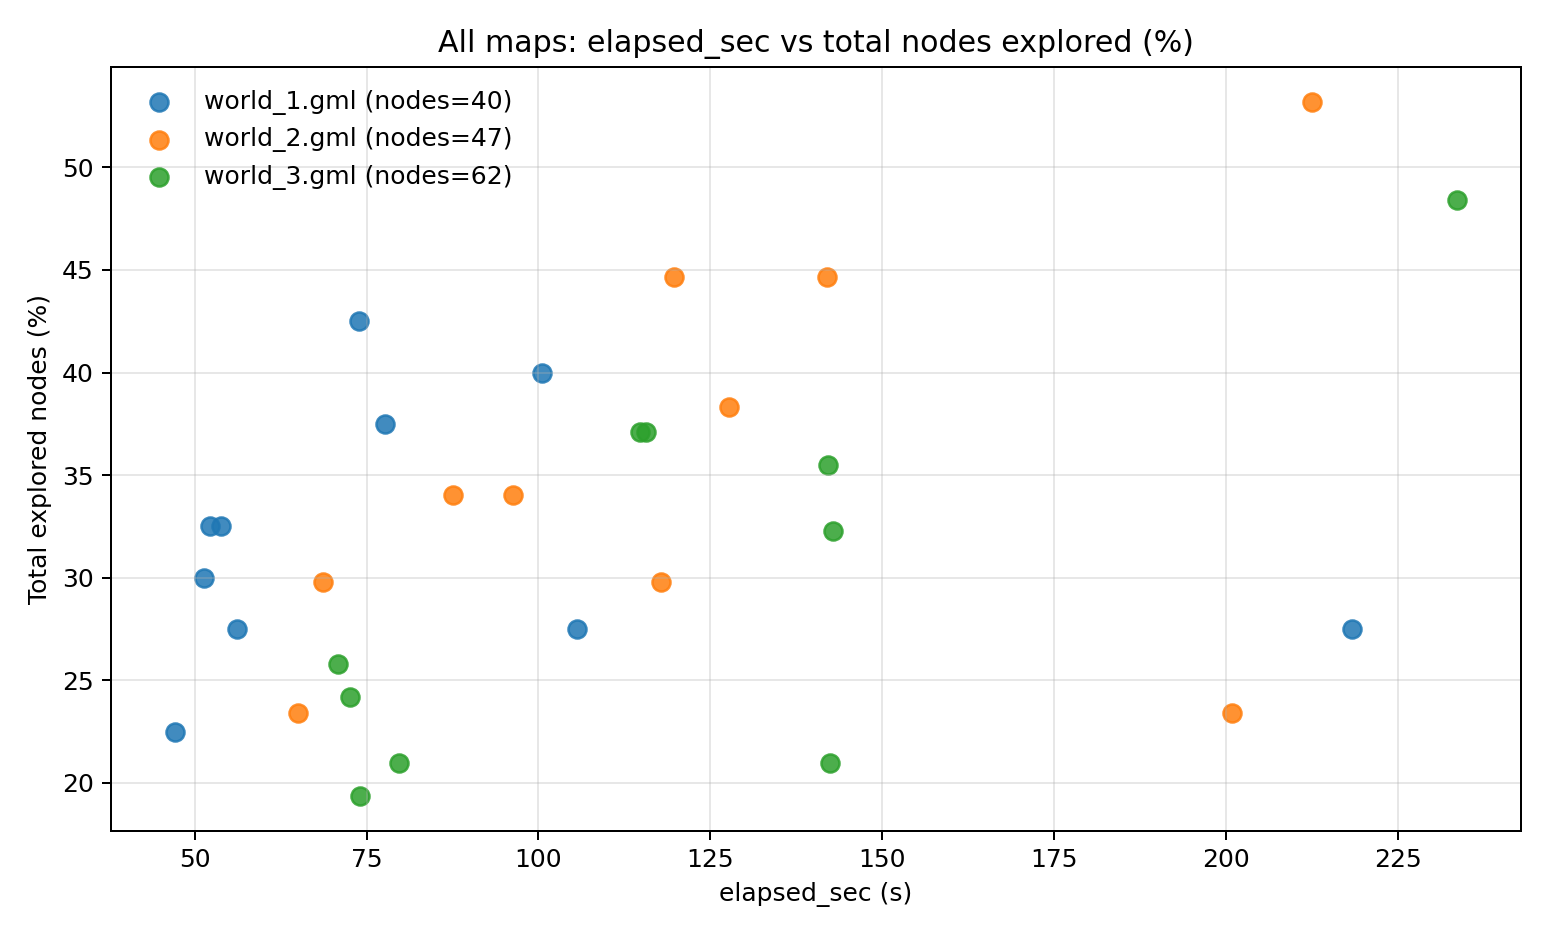
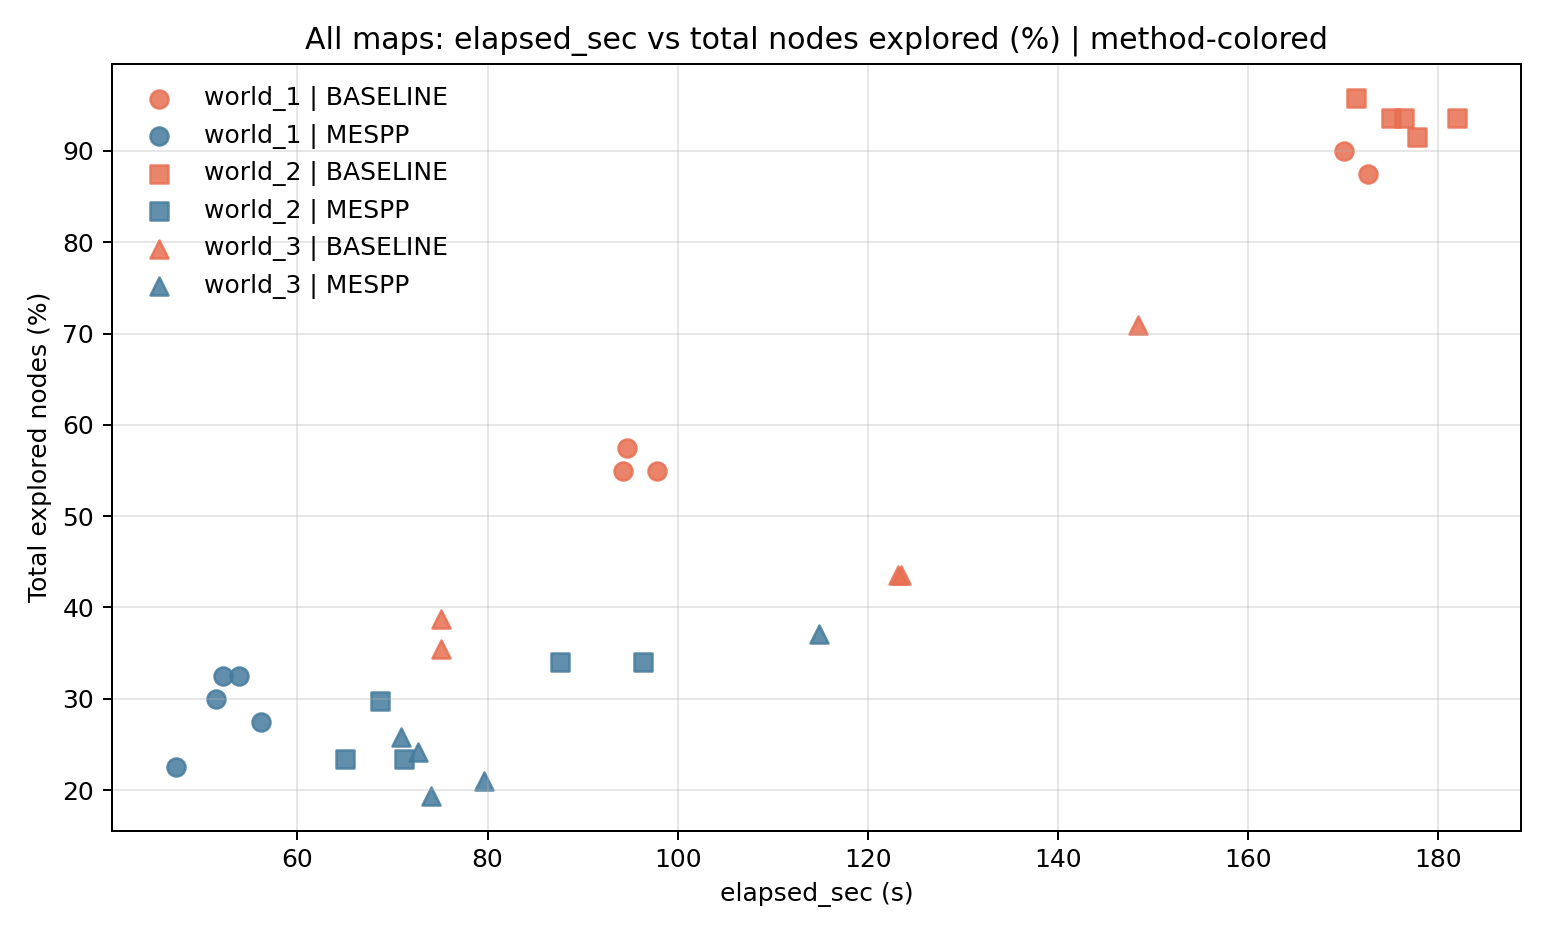
added algorithm launch argument

diff --git a/scripts/plot_search_metrics.py b/scripts/plot_search_metrics.py
@@ -22,6 +22,7 @@ import matplotlib
 
 matplotlib.use("Agg")
 import matplotlib.pyplot as plt
+from matplotlib.lines import Line2D
 from matplotlib.patches import Patch
 
 
@@ -218,6 +219,14 @@ def make_grouped_boxplots(
             positions=positions,
             widths=0.72,
             patch_artist=True,
+            showmeans=True,
+            meanprops={
+                "marker": "D",
+                "markerfacecolor": "white",
+                "markeredgecolor": "#111111",
+                "markersize": 6,
+                "linewidth": 1.1,
+            },
             medianprops={"color": "#222222", "linewidth": 1.5},
         )
         for patch, color in zip(artists["boxes"], colors):
@@ -240,7 +249,7 @@ def make_grouped_boxplots(
         axes[1],
         metric_key="elapsed_sec",
         ylabel="Seconds",
-        title="Elapsed time",
+        title="Capture time",
     )
 
     legend_handles = [
@@ -251,10 +260,22 @@ def make_grouped_boxplots(
         )
         for m in methods
     ]
+    legend_handles.append(
+        Line2D(
+            [0],
+            [0],
+            marker="D",
+            color="none",
+            markerfacecolor="white",
+            markeredgecolor="#111111",
+            markersize=6,
+            label="Mean",
+        )
+    )
     axes[1].legend(handles=legend_handles, loc="upper right", frameon=False)
 
     fig.suptitle(
-        "MESPP vs. Baseline grouped by percentage of nodes explored, and elapsed time.",
+        "MESPP vs. Baseline grouped by percentage of nodes explored, and capture time.",
         fontsize=12,
     )
     fig.tight_layout()

diff --git a/src/mr_path_planning/launch/nav2_multi.launch.py b/src/mr_path_planning/launch/nav2_multi.launch.py
@@ -131,6 +131,7 @@ def make_initial_pose_yaml(ns: str, x: float, y: float, yaw_deg: float) -> str:
 
 def launch_setup(context):
     world = LaunchConfiguration("world").perform(context)
+    algorithm = LaunchConfiguration("algorithm").perform(context)
     enable_graph_viz = LaunchConfiguration("enable_graph_viz")
     enable_graph_markers = LaunchConfiguration("enable_graph_markers")
     graph_viz_rotation_deg = LaunchConfiguration("graph_viz_rotation_deg")
@@ -360,10 +361,10 @@ def launch_setup(context):
     # Add 5 s buffer for AMCL to publish the map→odom transform.
     # ------------------------------------------------------------------
     app_delay = nav2_base_delay + (len(robots) - 1) * nav2_stagger + 10.0
+    search_node = milp_graph_search if algorithm == "mespp" else exhaustive_graph_search
     app_nodes = [
         target_graph_uniform,
-        milp_graph_search,
-        # exhaustive_graph_search,
+        search_node,
         search_metrics_logger,
         graph_viz,
         graph_markers,
@@ -381,6 +382,11 @@ def generate_launch_description():
                 "world",
                 default_value="polkadot",
                 description="World name (polkadot, graf201, hospital, world_1, world_2, world_3)",
+            ),
+            DeclareLaunchArgument(
+                "algorithm",
+                default_value="baseline",
+                description="Search algorithm: 'baseline' (exhaustive) or 'mespp' (MILP)",
             ),
             DeclareLaunchArgument(
                 "enable_graph_viz",
